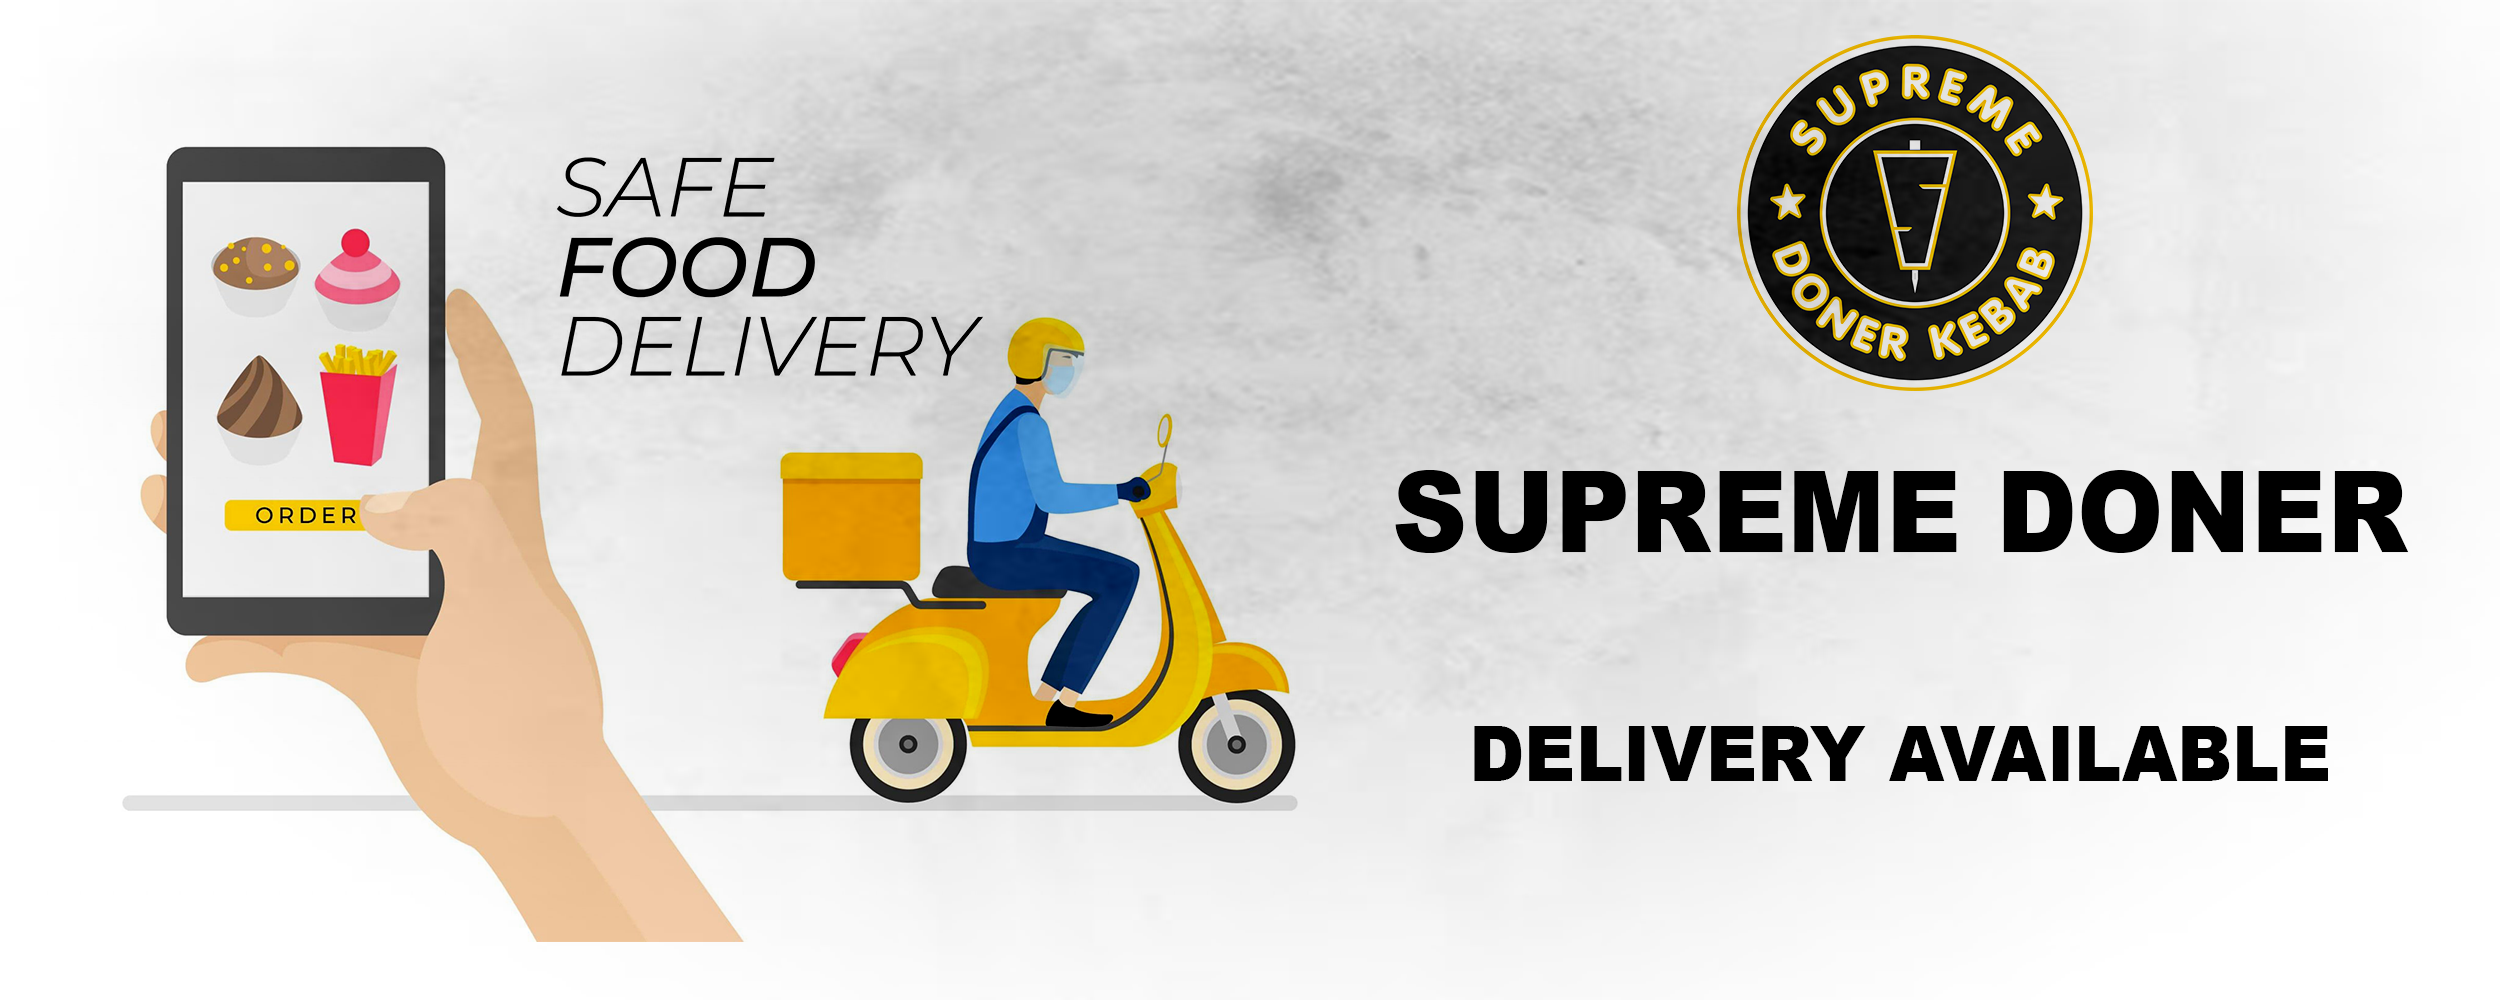
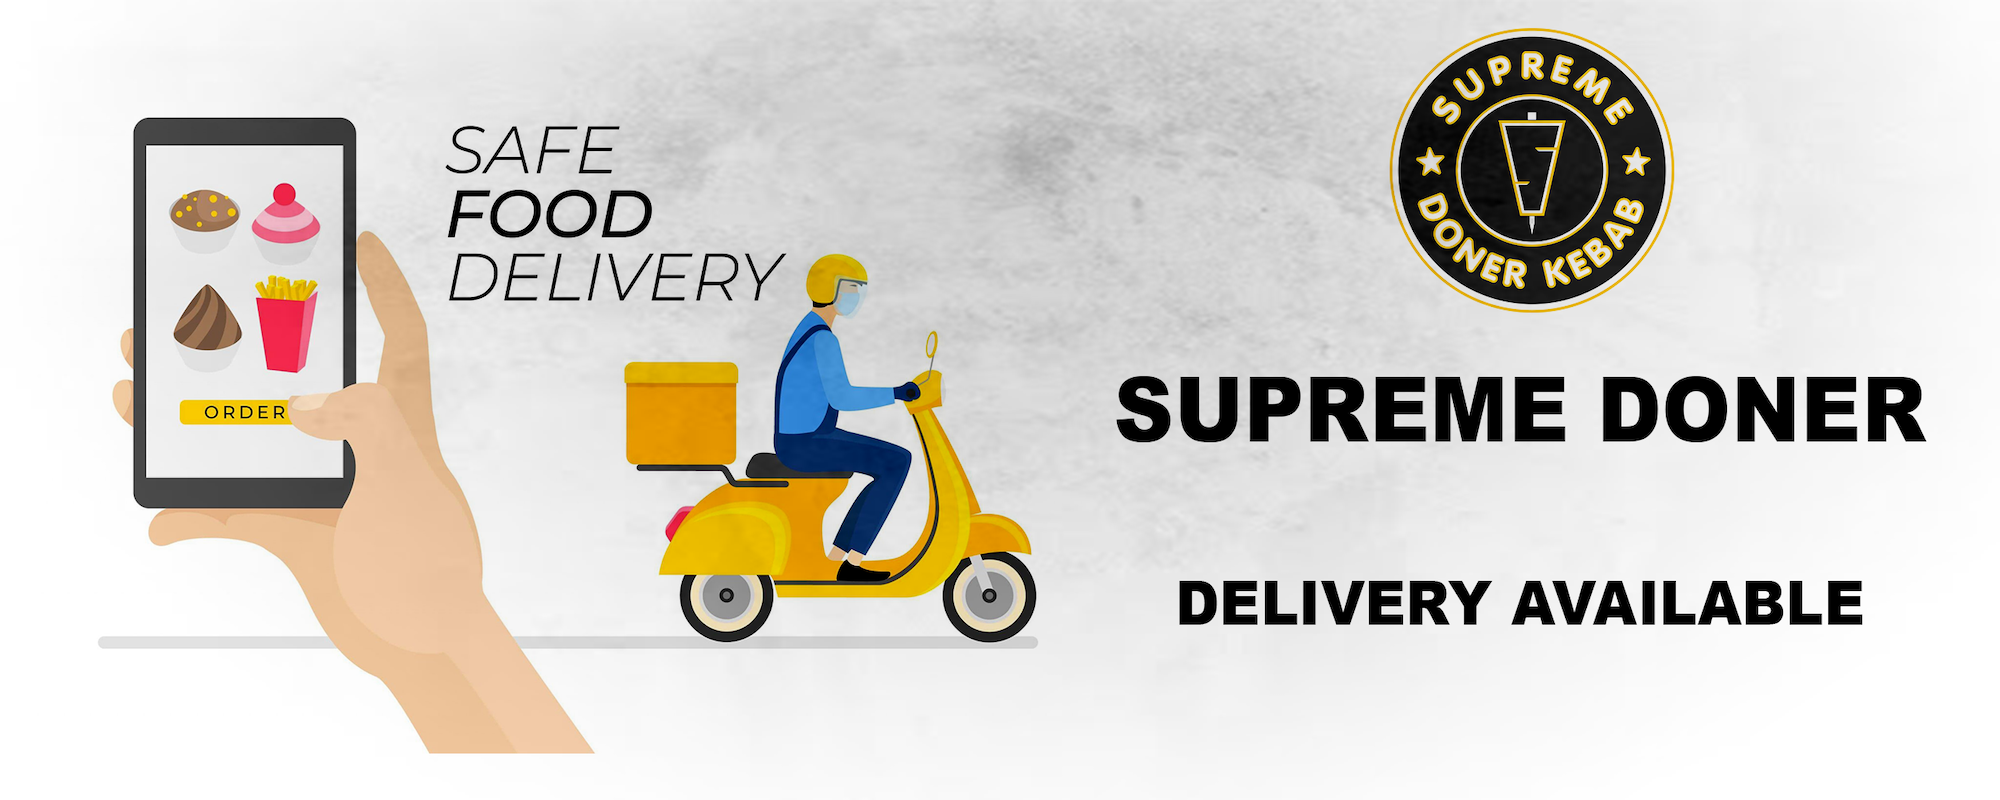
styling

diff --git a/pages/categories/[slug].js b/pages/categories/[slug].js
@@ -44,38 +44,76 @@ export default function MenuDetails({ menu }) {
     const { featuredImage, title, ingredients, description } = menu.fields
 
     return (
-        <div style={{marginLeft: '100px'}}>
-            <div className="banner">
-                <Image
-                    src={'https:' + featuredImage.fields.file.url}
-                    width={featuredImage.fields.file.details.image.width}
-                    height={featuredImage.fields.file.details.image.height}
-                />
+      <div style={{ marginLeft: "100px" }}>
+        <div className="banner">
+          <img
+            style={{width: '350px', height: 'auto', borderRadius: '25px', boxShadow: '6px 4px 6px #918f91', marginBottom: '20px'}}
+            className="image"
+            src={"https:" + featuredImage.fields.file.url}
+            width={featuredImage.fields.file.details.image.width}
+            height={featuredImage.fields.file.details.image.height}
+          />
 
-                <h2>{ title }</h2>
-            </div>
-
-            <div className="info">
-            <p>{ documentToReactComponents(description) }</p>
-            <h3>Ingredients: </h3>
-             
-             {ingredients.map(ing => (
-             <span key={ing}> { ing }</span>
-             ))}
-            </div>
-
-
-            <style jsx>{`
-            .banner {
-                width: 400px;
-            }
-                .info span:after{ 
-                    content: ", ";
-                }
-                .info span:last-child::after {
-                    content: ".";
-                }
-            `}</style>
+          <h2 className="text-uppercase fw-bolder">{title}</h2>
         </div>
-    )
+
+        <div className="info">
+          <p>{documentToReactComponents(description)}</p>
+          <h3>Ingredients: </h3>
+
+          {ingredients.map(ing => (
+            <span key={ing}> {ing}</span>
+          ))}
+        </div>
+
+        <style jsx>{`
+          .banner {
+            width: 400px;
+          }
+          @media (max-width: 376px) { 
+            .banner .image {
+            width: 100px;
+            height: 100px
+          }
+           }
+          .info span {
+            background: #c7a002;
+            background-image: -webkit-linear-gradient(top, #c7a002, #5e4f01);
+            background-image: -moz-linear-gradient(top, #c7a002, #5e4f01);
+            background-image: -ms-linear-gradient(top, #c7a002, #5e4f01);
+            background-image: -o-linear-gradient(top, #c7a002, #5e4f01);
+            background-image: linear-gradient(to bottom, #c7a002, #5e4f01);
+            -webkit-border-radius: 20;
+            -moz-border-radius: 20;
+            border-radius: 20px;
+            -webkit-box-shadow: 6px 4px 3px #918f91;
+            -moz-box-shadow: 6px 4px 3px #918f91;
+            box-shadow: 6px 4px 3px #918f91;
+            font-family: Courier New;
+            color: #ffffff;
+            font-size: 18px;
+            padding: 8px 14px 10px 8px;
+            text-decoration: none;
+            margin: 0 10px 0 0;
+            
+          }
+          .info span:hover {
+            text-decoration: none;
+          }
+          .info h3 {
+            font-family: "Times New Roman", Times, serif;
+            font-size: 20px;
+            letter-spacing: 0.4px;
+            word-spacing: -1.6px;
+            color: #000000;
+            font-weight: 700;
+            text-decoration: underline solid rgb(68, 68, 68);
+            font-style: normal;
+            font-variant: small-caps;
+            text-transform: uppercase;
+            margin-bottom: 20px;
+          }
+        `}</style>
+      </div>
+    );
 }

diff --git a/components/Sidebar.js b/components/Sidebar.js
@@ -12,29 +12,34 @@ export default function Sidebar() {
                     </header>
 
                     <li className="nav-item">
-                        <a href="#" className="nav-link" aria-current="page">
+                        <a href="/foods" className="nav-link" aria-current="page">
                             Our Food
                          </a>
                     </li>
 
                     <li className="nav-item">
-                        <a href="#" className="nav-link" aria-current="page">
+                        <a href="/locations" className="nav-link" aria-current="page">
                             Locations
                          </a>
                     </li>
 
                     <li className="nav-item ">
-                        <a href="#" className="nav-link" aria-current="page">
+                        <a href="/online" className="nav-link" aria-current="page">
                             Order <br />Online
                          </a>
                     </li>
 
                     <li className="nav-item ">
-                        <a href="#" className="nav-link" aria-current="page">
+                        <a href="/contact" className="nav-link" aria-current="page">
                             Contact
                          </a>
                     </li>
                 </ul>
+
+
+        <style jsx>{`
+         
+        `}</style>
             </div>
             
             </>

diff --git a/components/Carousel.js b/components/Carousel.js
@@ -5,14 +5,14 @@ export default function Carousel() {
       <>
       
     
-<div id="myCarousel" class="carousel slide d-none d-sm-block" data-bs-ride="carousel">
+<div id="myCarousel" class="carousel slide" data-bs-ride="carousel">
     <div class="carousel-indicators">
       <button type="button" data-bs-target="#myCarousel" data-bs-slide-to="0" class="active" aria-current="true" aria-label="Slide 1"></button>
       <button type="button" data-bs-target="#myCarousel" data-bs-slide-to="1" aria-label="Slide 2"></button>
     </div>
     <div class="carousel-inner">
       <div class="carousel-item active">
-        <img src="/banner1.png" class="bd-placeholder-img" width="100%" height="100%" aria-hidden="true" focusable="false"/>
+        <img src="/banner1.png" class="bd-placeholder-img img-fluid" width="100%" height="100%" aria-hidden="true" focusable="false"/>
         
 
         <div class="container">
@@ -24,7 +24,7 @@ export default function Carousel() {
         </div>
       </div>
       <div class="carousel-item">
-        <img src="/banner2.png" class="bd-placeholder-img" width="100%" height="100%" aria-hidden="true" focusable="false"/>
+        <img src="/banner2.png" class="bd-placeholder-img img-fluid" width="100%" height="100%" aria-hidden="true" focusable="false"/>
 
         <div class="container">
           <div class="carousel-caption">

diff --git a/pages/index.js b/pages/index.js
@@ -30,7 +30,7 @@ const Home = ({ categories }) => {
      <div>
        <section className="text-center container">
          <div className="row py-lg-5">
-           <div className="col-lg-6 col-md-8 mx-auto">
+           <div className="col-lg-6 col-md-8 col-sm-12 mx-auto">
              <h1 className="fw-bold">OUR MENU</h1>
            </div>
          </div>
@@ -39,7 +39,7 @@ const Home = ({ categories }) => {
        <div className="album px-3 bg-light menu">
          <div className="container">
 
-           <div className="row row-cols-1 row-cols-sm-1 row-cols-md-3 g-3 text-center px-5 menu">
+           <div className="row row-cols-2 row-cols-sm-3 row-cols-md-3 g-3 text-center px-5 menu">
 
              {categories.map(category => (
                <CardMenu key={category.sys.id} category={category} />

diff --git a/styles/carousel.css b/styles/carousel.css
@@ -11,16 +11,34 @@
 
 /* Declare heights because of positioning of img element */
 .carousel-item {
-  height: 32rem;
+  width: 100%
 }
 .carousel-item > img {
   position: absolute;
   top: 0;
   left: 0;
   min-width: 100%;
-  height: 32rem;
+  height: auto;
 }
 
  .carousel-inner img {
   width: 100%;
   }
+
+  @media (max-width: 576px) { 
+    .carousel-item {
+       height: 140px
+    }
+ }
+
+   @media (min-width: 1024px) { 
+    .carousel-item {
+       height: 450px
+    }
+ }
+
+   /* @media (max-width: 1276px) { 
+    .carousel-item {
+       height: 400px
+    }
+ } */

diff --git a/components/Layout.js b/components/Layout.js
@@ -3,7 +3,7 @@ import Link from 'next/link';
 
 import Carousel from './Carousel';
 import Sidebar from './Sidebar';
-import Hungry from './Hungry';
+import Options from './Options';
 import Footer from './Footer';
 
 export default function Layout({ children }) {
@@ -26,7 +26,7 @@ export default function Layout({ children }) {
                         </div>
 
 
-                        <Hungry />
+                        <Options />
                     </div>
                 </div>
                 <Footer />

diff --git a/components/Footer.js b/components/Footer.js
@@ -20,7 +20,7 @@ export default function Footer() {
         <li><a class="link-secondary" href="#">Customer Services</a></li>
         <li><a class="link-secondary" href="#">Terms and Condition</a></li>
         <li><a class="link-secondary" href="#">Privacy Policy</a></li>
-        <li><a class="link-secondary" href="#">Contact Us</a></li>
+        <li><a class="link-secondary" href="#">Franchising</a></li>
       </ul>
     </div>
     <div class="col-3 col-md">

diff --git a/components/Options.js b/components/Options.js
@@ -1,6 +1,6 @@
 import React from 'react'
 
-export default function Hungry() {
+export default function Options() {
     return (
       <>
       <section className="section_buttons">

diff --git a/styles/sidebar.css b/styles/sidebar.css
@@ -28,5 +28,8 @@
     justify-content: center;
     height: 80%;
     transform: rotate(-20deg);
+    font-style: normal;
+    font-variant: small-caps;
+    color: #444444;
 }
 

diff --git a/pages/locations.js b/pages/locations.js
@@ -1,0 +1,9 @@
+import React from 'react'
+
+export default function locations() {
+    return (
+        <div>
+            <h1>LOCATION</h1>
+        </div>
+    )
+}

diff --git a/pages/contact.js b/pages/contact.js
@@ -1,0 +1,9 @@
+import React from 'react'
+
+export default function contact() {
+    return (
+        <div>
+            <h1>CONTACT</h1>
+        </div>
+    )
+}

diff --git a/pages/foods.js b/pages/foods.js
@@ -1,0 +1,9 @@
+import React from 'react'
+
+export default function foods() {
+    return (
+        <div>
+            <h1>FOODS</h1>
+        </div>
+    )
+}
